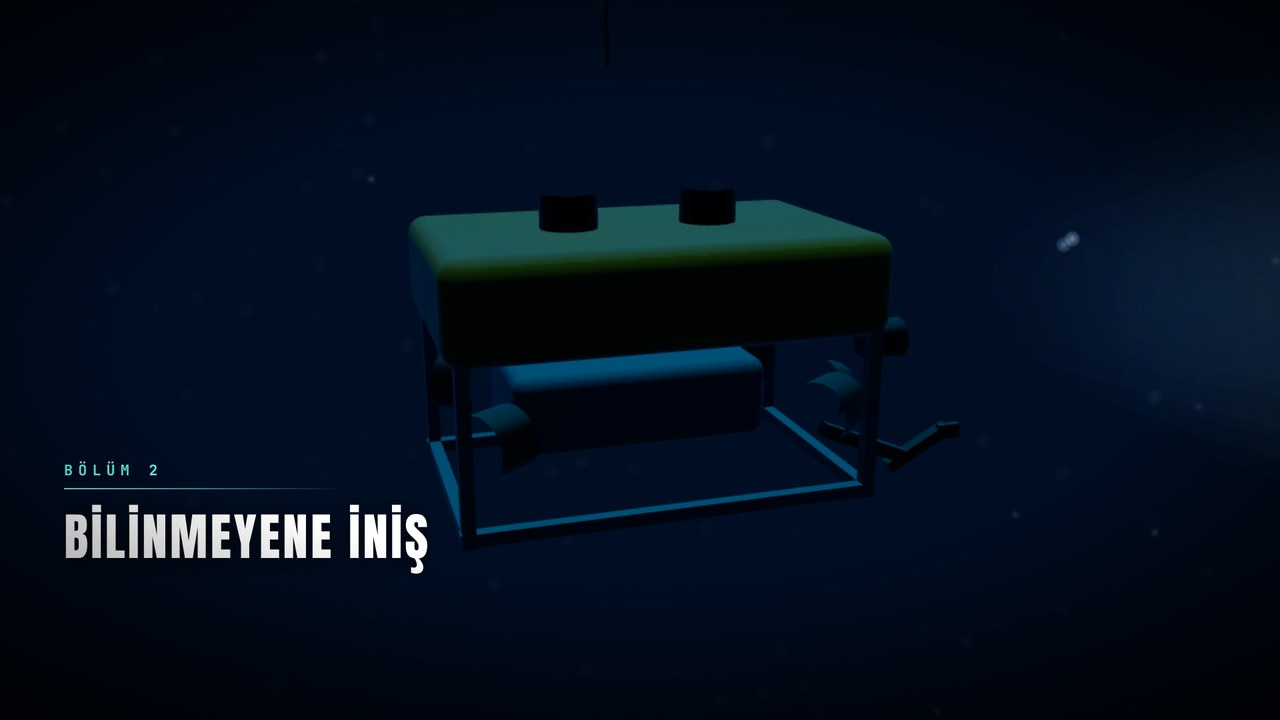
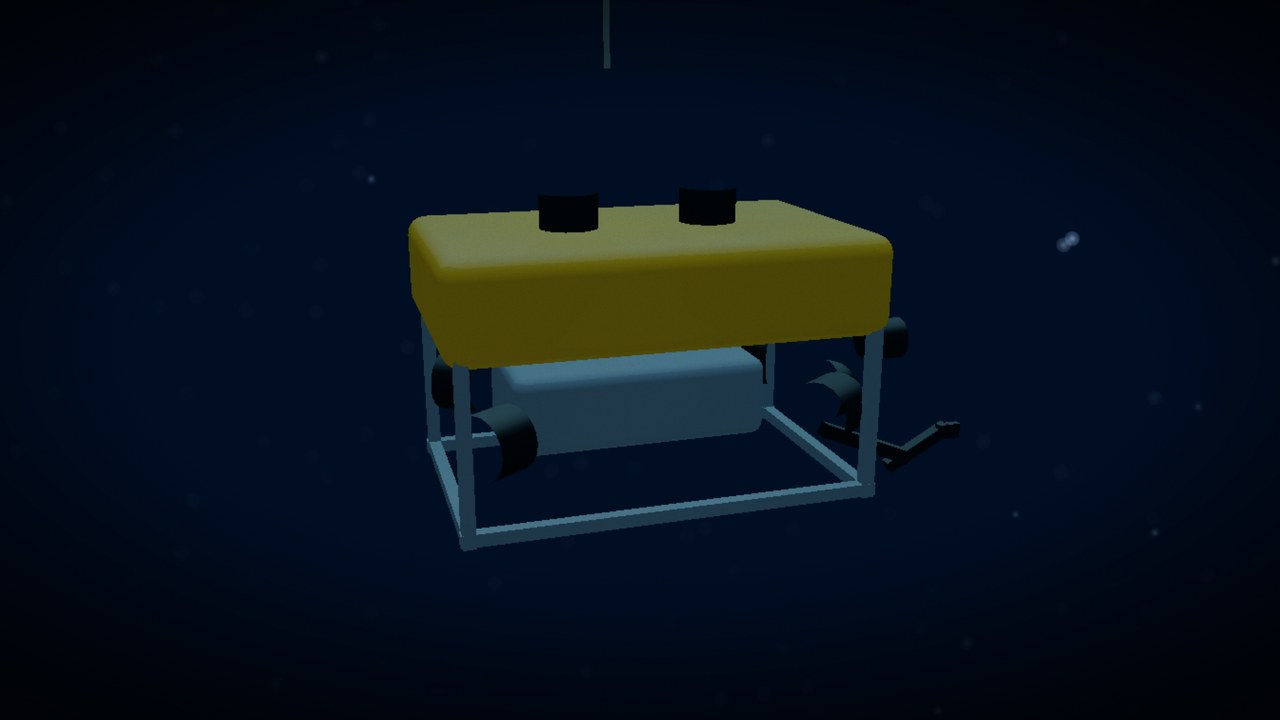
gizli_uygarlik: bölüm 4–8 görsel düzeltmeleri (temiz akış görüntüleri, ufuk bulut artefaktı, uluslararası sular haritası, Dünya kadrajı, sinyal kaybı kontrastı)
Claude-Session: https://claude.ai/code/session_01LEcxErE4qcL98KpQ39U2HE

diff --git a/engine/src/ocean/InfoScene.tsx b/engine/src/ocean/InfoScene.tsx
@@ -289,7 +289,7 @@ const Sofar: React.FC = () => {
 			{rays.map((r, i) => (
 				<polyline key={i} points={r} fill="none" stroke={C.cyan} strokeWidth={2.5} opacity={0.85 - i * 0.2} style={{filter: `drop-shadow(0 0 6px ${C.cyan})`}} />
 			))}
-			<text x={W * 0.12} y={axis - 56} fill={C.white} fontFamily={FONTS.sans} fontWeight={800} fontSize={34}>
+			<text x={W * 0.12} y={axis - 135} fill={C.white} fontFamily={FONTS.sans} fontWeight={800} fontSize={34}>
 				SOFAR kanalı · ses binlerce kilometre taşınabilir
 			</text>
 			<text x={W * 0.12} y={axis + 80} fill={C.dim} fontFamily={FONTS.mono} fontSize={22}>
@@ -308,7 +308,7 @@ const Law: React.FC = () => {
 			<div style={{position: 'absolute', left: land ? 120 : 60, top: land ? 160 : 300, width: land ? W * 0.5 : W - 120, height: land ? H * 0.62 : H * 0.3, borderRadius: 16, overflow: 'hidden', border: `1px solid ${C.line}`}}>
 				<img src={staticFile('shared/earth_bmng_5400.jpg')} style={{width: '100%', height: '100%', objectFit: 'cover', filter: 'saturate(0.4) brightness(0.55) contrast(1.1)'}} />
 				<div style={{position: 'absolute', inset: 0, background: 'rgba(10,60,110,0.25)', mixBlendMode: 'screen'}} />
-				<div style={{position: 'absolute', left: '62%', top: '52%', width: 30, height: 30, marginLeft: -15, marginTop: -15, borderRadius: 99, background: C.cyan, boxShadow: `0 0 30px ${C.cyan}`, opacity: 0.6 + 0.4 * Math.sin(frame * 0.15)}} />
+				<div style={{position: 'absolute', left: '36.5%', top: '41.7%', width: 30, height: 30, marginLeft: -15, marginTop: -15, borderRadius: 99, background: C.cyan, boxShadow: `0 0 30px ${C.cyan}`, opacity: 0.6 + 0.4 * Math.sin(frame * 0.15)}} />
 			</div>
 			<div style={{position: 'absolute', left: land ? W * 0.58 : 60, top: land ? 190 : H * 0.6, width: land ? W * 0.36 : W - 120}}>
 				<Label size={20} color={C.cyan}>BM Deniz Hukuku Sözleşmesi · Madde 136</Label>
@@ -326,15 +326,15 @@ const Facts: React.FC<{rows: NonNullable<InfoProps['rows']>}> = ({rows}) => {
 	const colW = land ? W * 0.38 : W * 0.42;
 	return (
 		<>
-			<div style={{position: 'absolute', left: land ? W * 0.1 : 50, top: land ? 160 : 330, width: colW}}>
+			<div style={{position: 'absolute', left: land ? W * 0.1 : 50, top: land ? 235 : 330, width: colW}}>
 				<div style={{fontFamily: FONTS.sans, fontWeight: 900, fontSize: 40, color: C.green, letterSpacing: 4}}>GERÇEK</div>
 			</div>
-			<div style={{position: 'absolute', left: land ? W * 0.53 : W * 0.52, top: land ? 160 : 330, width: colW}}>
+			<div style={{position: 'absolute', left: land ? W * 0.53 : W * 0.52, top: land ? 235 : 330, width: colW}}>
 				<div style={{fontFamily: FONTS.sans, fontWeight: 900, fontSize: 40, color: C.amber, letterSpacing: 4}}>KURGU</div>
 			</div>
 			{rows.map((r, i) => {
 				const a = appear(frame, r.at, 12);
-				const y = (land ? 250 : 420) + i * (land ? 150 : 210);
+				const y = (land ? 320 : 420) + i * (land ? 160 : 210);
 				return (
 					<React.Fragment key={i}>
 						<div style={{position: 'absolute', left: land ? W * 0.1 : 50, top: y, width: colW, opacity: a, transform: `translateX(${(1 - a) * -30}px)`, borderLeft: `4px solid ${C.green}`, paddingLeft: 20, fontFamily: FONTS.ui, fontSize: land ? 30 : 30, color: C.white, lineHeight: 1.35}}>

diff --git a/engine/src/ocean/Hud.tsx b/engine/src/ocean/Hud.tsx
@@ -107,9 +107,9 @@ export const Hud: React.FC<{spec: HudSpec}> = ({spec}) => {
 				</div>
 			</AbsoluteFill>
 			{lost > 0 ? (
-				<AbsoluteFill style={{opacity: lost, background: '#020406', alignItems: 'center', justifyContent: 'center'}}>
-					<AbsoluteFill style={{backgroundImage: `url(${staticFile('shared/grain.png')})`, backgroundSize: '200px 200px', backgroundPosition: `${Math.floor(hash(frame) * 200)}px ${Math.floor(hash(frame + 1) * 200)}px`, opacity: 0.5}} />
-					<div style={{...txt, fontSize: 44 * S, letterSpacing: 8, color: '#ff5a4a', textShadow: '0 0 18px rgba(255,80,60,0.6)', opacity: frame % 24 < 16 ? 1 : 0.35}}>SİNYAL KAYBI</div>
+				<AbsoluteFill style={{opacity: lost, background: '#010203', alignItems: 'center', justifyContent: 'center'}}>
+					<AbsoluteFill style={{backgroundImage: `url(${staticFile('shared/grain.png')})`, backgroundSize: '200px 200px', backgroundPosition: `${Math.floor(hash(frame) * 200)}px ${Math.floor(hash(frame + 1) * 200)}px`, opacity: 0.2}} />
+					<div style={{...txt, fontSize: 44 * S, letterSpacing: 8, color: '#ff7a68', textShadow: '0 0 22px rgba(255,90,70,0.8)', opacity: frame % 24 < 16 ? 1 : 0.35}}>SİNYAL KAYBI</div>
 					<div style={{...txt, marginTop: 18, opacity: 0.7}}>YANKI · BAĞLANTI YOK · YENİDEN DENENİYOR</div>
 				</AbsoluteFill>
 			) : null}

diff --git a/engine/src/ocean/Chapter.tsx b/engine/src/ocean/Chapter.tsx
@@ -1,14 +1,23 @@
 // Bölüm başlığı katmanı (sol alt, ince çizgi + harf aralıklı başlık); slayt değil, sahnenin üstünde.
 import React from 'react';
-import {interpolate, useCurrentFrame, useVideoConfig} from 'remotion';
+import {getInputProps, interpolate, useCurrentFrame, useVideoConfig} from 'remotion';
 import {FONTS} from '../lib/theme';
 import {ease} from '../lib/anim';
 
 export type ChapterSpec = {n: string; title: string; at?: number; dur?: number};
 
+const CLEAN = (() => {
+	try {
+		return Boolean((getInputProps() as {clean?: boolean}).clean);
+	} catch {
+		return false;
+	}
+})();
+
 export const Chapter: React.FC<{spec: ChapterSpec}> = ({spec}) => {
 	const frame = useCurrentFrame();
 	const {width: W, height: H, fps} = useVideoConfig();
+	if (CLEAN) return null;
 	const at = spec.at ?? 6;
 	const dur = spec.dur ?? 4.2 * fps;
 	const a = interpolate(frame, [at, at + 14, at + dur - 14, at + dur], [0, 1, 1, 0], {extrapolateLeft: 'clamp', extrapolateRight: 'clamp'});

diff --git a/engine/src/ocean/DeepScene.tsx b/engine/src/ocean/DeepScene.tsx
@@ -420,7 +420,7 @@ const Vents: React.FC<{sh: Shared; pos: V3}> = ({sh, pos}) => {
 			const z = s.z + Math.sin(a) * rr;
 			const tilt = (R() - 0.5) * 0.5;
 			tubes.push(new THREE.CylinderGeometry(0.045, 0.06, h, 6).rotateZ(tilt).translate(x, h / 2 + 0.3, z));
-			tips.push(new THREE.SphereGeometry(0.09, 8, 6).scale(1, 1.6, 1).translate(x - Math.sin(tilt) * h * 0.5, h + 0.35, z));
+			tips.push(new THREE.SphereGeometry(0.055, 8, 6).scale(1, 1.5, 1).translate(x - Math.sin(tilt) * h * 0.5, h + 0.35, z));
 		}
 		return {chim: mergeGeometries(chim), mound, tubes: mergeGeometries(tubes), tips: mergeGeometries(tips), stacks};
 	}, []);

diff --git a/engine/src/ocean/storm.frag.ts b/engine/src/ocean/storm.frag.ts
@@ -50,7 +50,7 @@ vec3 skyCol(vec3 rd){
   vec2 cp = rd.xz / max(rd.y, 0.04) * 0.55 + vec2(uTime * 0.012, uTime * 0.006);
   float cl = fbm(cp);
   float cl2 = fbm(cp * 2.3 + 4.0);
-  float cover = smoothstep(0.35 - uStorm * 0.25, 0.85, cl);
+  float cover = smoothstep(0.35 - uStorm * 0.25, 0.85, cl) * smoothstep(0.03, 0.22, rd.y);   // ufukta bulut dokusu gerilir: sönümle
   vec3 cloud = mix(vec3(0.02, 0.025, 0.032), vec3(0.32, 0.31, 0.32), uDawn) * (0.6 + 0.6 * cl2);
   c = mix(c, cloud, cover * (0.55 + 0.45 * uStorm));
   // güneş parıltısı (şafak)

diff --git a/topics/gizli_uygarlik/scenes.py b/topics/gizli_uygarlik/scenes.py
@@ -298,7 +298,7 @@ SCENES = [
         lamps={"mode": "cam", "i": 6}, vents={"show": True, "pos": [-950, 0, 300]}, hud=hud(2510, label="TEMSİLİ · HİDROTERMAL BACA"),
         tag="GERÇEK · İLK KEŞİF 1977 (WHOI)", tagColor="#5BE38A"), ("fade", 0.3)),
     sc("ekosistem_worms", "deep3d", S("ekosistem", -0.1), deep(
-        [K(0, [-945.5, 2.6, 307], [-950, 1.2, 301.5], 42), K(7, [-944, 2.4, 306], [-949.5, 1.2, 301], 40)], sigma=[0.06, 0.025, 0.018], city=False,
+        [K(0, [-939.5, 4.6, 313], [-950, 1.6, 300], 42), K(7, [-940.5, 4.4, 312], [-950, 1.6, 300.5], 42)], sigma=[0.06, 0.025, 0.018], city=False,
         lamps={"mode": "cam", "i": 5}, vents={"show": True, "pos": [-950, 0, 300]}, hud=hud(2510, label="TEMSİLİ · TÜP SOLUCANLARI"),
         tag="GERÇEK · KİMYASAL ENERJİYLE YAŞAM", tagColor="#5BE38A")),
     sc("enerji_kurgu_heart", "deep3d", S("enerji_kurgu", -0.1), deep(
@@ -306,7 +306,7 @@ SCENES = [
         tag="KURGU · ŞEHİR ÖLÇEĞİNDE ENERJİ", tagColor="#FFB347"), ("fade", 0.3)),
     sc("yapi_fish", "deep3d", S("yapi", -0.1), deep(
         [K(0, [-1001, 2.3, -501], [-1004.5, 1.6, -507], 40), K(6, [-1000.6, 2.2, -501.4], [-1004, 1.6, -507.5], 40)], sigma=MIDC,
-        lamps={"mode": "cam", "i": 0.9}, power=0.4, fish={"show": True, "pos": [{"t": 0, "v": [-1000.3, 2.05, -503.4]}, {"t": 6, "v": [-1002.0, 2.0, -502.5]}], "yaw": 0.5},
+        lamps={"mode": "cam", "i": 1.3}, power=0.4, fish={"show": True, "pos": [{"t": 0, "v": [-1000.3, 2.05, -503.4]}, {"t": 6, "v": [-1002.0, 2.0, -502.5]}], "yaw": 0.5},
         tag="GERÇEK · BASINCA KARŞI KORUYUCU MOLEKÜLLER", tagColor="#5BE38A"), ("fade", 0.3)),
     sc("yapi_wall", "deep3d", W("yapi", "Kendini", off=-0.15), deep(
         [K(0, [585.83, 26.46, 78.06], [583.22, 25.32, 80.71], 54), K(5, [584.99, 26.46, 79.88], [582.59, 25.32, 82.07], 54)], sigma=CLOSE,
@@ -322,7 +322,7 @@ SCENES = [
     sc("sofar_info", "info", S("sofar", -0.1), {"mode": "sofar", "title": "Okyanusun doğal ses kanalı", "source": "NOAA · SOFAR kanalı"}, ("fade", 0.3)),
     sc("fisilti_earth", "earth", S("fisilti", -0.2), {
         "clouds": 0.45, "stars": 0.7, "exposure": 1.1, "sat": 1.05, "sunFollow": [-10, 35],
-        "keys": [{"t": 0, "lat": 5, "lon": -150, "alt": 21000, "heading": 0, "pitch": 90, "fov": 46}, {"t": 8, "lat": 0, "lon": -120, "alt": 23000, "e": "linear"}],
+        "keys": [{"t": 0, "lat": 5, "lon": -150, "alt": 13500, "heading": 0, "pitch": 90, "fov": 46}, {"t": 8, "lat": 0, "lon": -120, "alt": 15500, "e": "linear"}],
         "arcs": [{"from": [-30.5, -177.0], "to": [19.8, -66.0], "start": 0.6, "dur": 2.4}, {"from": [-30.5, -177.0], "to": [-10.3, 110.0], "start": 1.6, "dur": 2.8}]}, ("fade", 0.4)),
     sc("ucurum_gap", "info", S("ucurum", -0.1), {"mode": "gap", "title": "Aradaki fark: yüzyıllar mı, binlerce yıl mı?"}, ("fade", 0.3)),
     sc("ekonomi_lab", "lab", S("ekonomi", -0.1), {"title": "Tek bir teknoloji, bütün bir sektör", "tag": "VARSAYIMSAL SENARYO", "panels": [
@@ -387,12 +387,12 @@ SCENES = [
     sc("yukari_ascent", "ocean", S("yukari", -0.3), water([{"t": 0, "v": 6000}, {"t": 3.2, "v": 60}], cam={"pitch": 0.55, "fov": 62}, lamp=[{"t": 0, "v": 0.6}, {"t": 2.5, "v": 0}],
         snow=0.6, descent=-9, hud=hud([{"t": 0, "v": 6000}, {"t": 3.2, "v": 60}], minimal=True)), ("fade", 0.4)),
     sc("yukari_surface", "ocean", W("yukari", "gökyüzüne", off=-0.6), storm(
-        [{"t": 0, "v": [0, 2.5, 0]}, {"t": 4, "v": [0, 260, 40]}], 0.6, [{"t": 0, "v": 0.05}, {"t": 4, "v": -0.35}], 50,
-        amp=1.0, storm=0.15, dawn=1, rain=0, ship={"show": False}), ("fade", 0.3)),
+        [{"t": 0, "v": [0, 2.5, 0]}, {"t": 5, "v": [0, 150, 0], "e": "cine"}], 0.86, [{"t": 0, "v": 0.035}, {"t": 5, "v": -0.12}], 52,
+        amp=1.0, storm=0.3, dawn=0.85, rain=0, exposure=0.5, ship={"show": False}), ("fade", 0.3)),
     sc("uzay_earth", "earth", S("uzay", -0.4), {
         "clouds": 0.5, "stars": 0.9, "exposure": 1.05, "sat": 1.05, "sunFollow": [-20, 60],
-        "keys": [{"t": 0, "lat": 5, "lon": -150, "alt": 9000, "heading": 0, "pitch": 90, "fov": 46}, {"t": 14, "lat": 0, "lon": -100, "alt": 32000, "e": "inOut"}],
-        "lights": [{"lat": la, "lon": lo, "from": 0.4 + k * 0.25, "size": 0.65} for k, (la, lo) in enumerate([
+        "keys": [{"t": 0, "lat": 5, "lon": -150, "alt": 8000, "heading": 0, "pitch": 90, "fov": 46}, {"t": 14, "lat": 0, "lon": -100, "alt": 17500, "e": "inOut"}],
+        "lights": [{"lat": la, "lon": lo, "from": 0.4 + k * 0.25, "size": 0.85} for k, (la, lo) in enumerate([
             (-30.5, -177.0), (19.8, -66.0), (-10.3, 110.0), (11.3, 142.2), (37.0, 143.5), (-23.0, -71.5), (51.0, -175.0), (-56.0, -25.0), (10.5, 127.0), (-8.0, -152.0), (25.0, -40.0), (-40.0, 60.0)])]}, ("fade", 0.6)),
 ]
 
